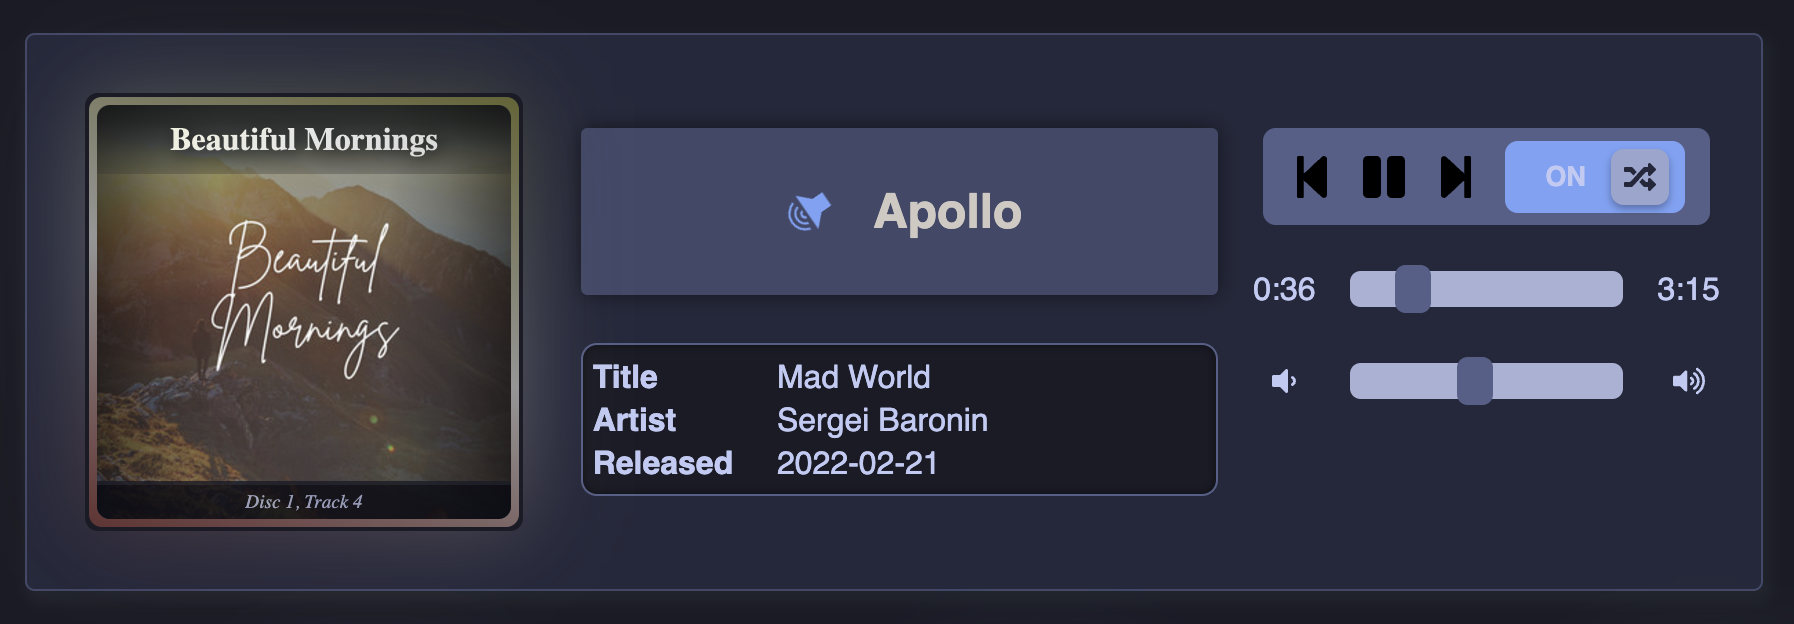
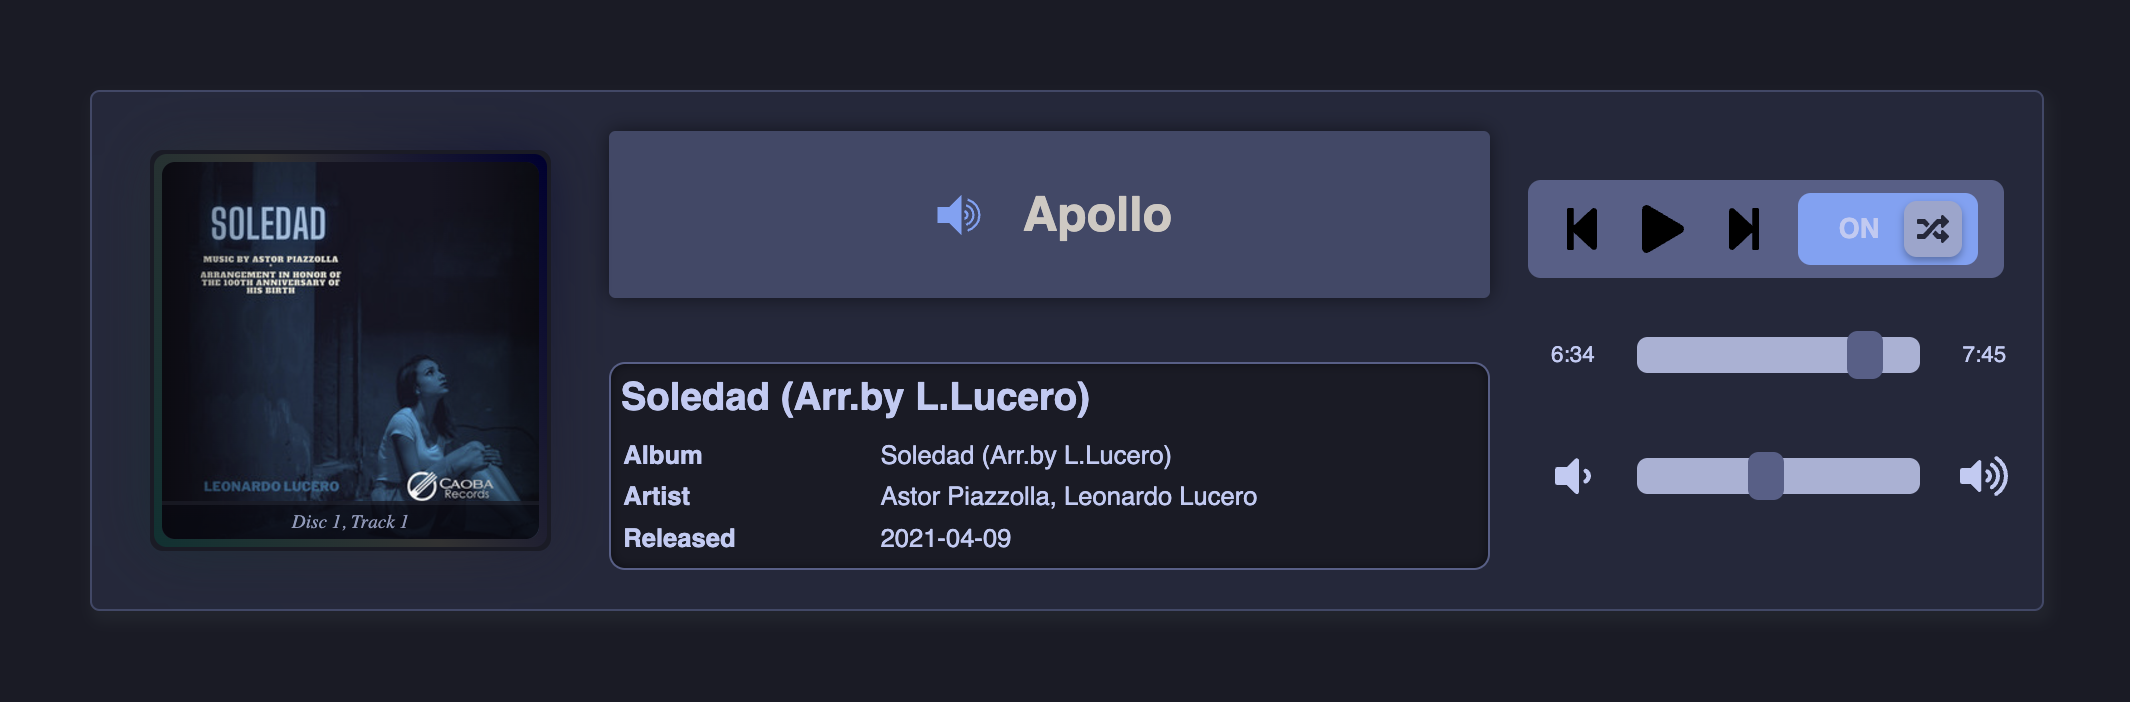
Fix layouts

diff --git a/src/components/MediaPlayer.css b/src/components/MediaPlayer.css
@@ -22,23 +22,6 @@
   position: relative;
 }
 
-.spotify-player-widescreen-layout {
-  display: flex;
-  flex-direction: row;
-  gap: 1em;
-  justify-content: space-between;
-}
-
-.spotify-player-portrait-layout {
-  display: flex;
-  flex-direction: column;
-}
-
-.spotify-player-default-layout {
-  display: flex;
-  flex-direction: column;
-}
-
 /* Wrapper main contents */
 
 .spotify-player-info-container {
@@ -51,64 +34,78 @@
   flex: 1;
 }
 
-/* Default layout (500px - 900px) */
-@media (min-width: 500px) and (max-width: 900px) {
-  .spotify-player-header {
-    order: -1;
-  }
+/* Default layout */
 
-  .spotify-player-footer {
-    display: flex;
-    justify-content: space-between;
-  }
-
-  .spotify-player-info-container {
-    flex-direction: row;
-  }
-
-  .spotify-player-left {
-    justify-content: space-between;
-    height: 100%;
-    flex: 1;
-  }
-
-  .spotify-player-right {
-    flex: 1;
-    display: flex;
-    flex-direction: column;
-    justify-content: space-between;
-    align-self: stretch;
-  }
+.spotify-player-default-layout {
+  display: flex;
+  flex-direction: column;
 }
 
-/* Portrait layout (<500px) */
-@media (max-width: 500px) {
-  .spotify-player-info-container {
-    flex-direction: column;
-  }
-
-  .spotify-player-bottom {
-    order: 1;
-  }
+.spotify-player-default-layout .spotify-player-header {
+  order: -1;
 }
 
-/* Widescreen layout (>900px) */
-@media (min-width: 900px) {
-  .spotify-player-left {
-    flex: 1;
-  }
+.spotify-player-default-layout .spotify-player-footer {
+  display: flex;
+  justify-content: space-between;
+}
 
-  .spotify-player-middle {
-    flex: 2;
-    display: flex;
-    flex-direction: column;
-    gap: 1em;
-  }
+.spotify-player-default-layout .spotify-player-info-container {
+  flex-direction: row;
+}
 
-  .spotify-player-right {
-    flex: 1;
-    display: flex;
-    flex-direction: column;
-    gap: 1em;
-  }
+.spotify-player-default-layout .spotify-player-left {
+  justify-content: space-between;
+  height: 100%;
+  flex: 1;
+}
+
+.spotify-player-default-layout .spotify-player-right {
+  flex: 1;
+  display: flex;
+  flex-direction: column;
+  justify-content: space-between;
+  align-self: stretch;
+}
+
+/* Portrait layout */
+
+.spotify-player-portrait-layout {
+  display: flex;
+  flex-direction: column;
+}
+
+.spotify-player-portrait-layout .spotify-player-info-container {
+  flex-direction: column;
+}
+
+.spotify-player-portrait-layout .spotify-player-bottom {
+  order: 1;
+}
+
+/* Widescreen layout */
+
+.spotify-player-widescreen-layout {
+  display: flex;
+  flex-direction: row;
+  gap: 1em;
+  justify-content: space-between;
+}
+
+.spotify-player-widescreen-layout .spotify-player-left {
+  flex: 1;
+}
+
+.spotify-player-widescreen-layout .spotify-player-middle {
+  flex: 2;
+  display: flex;
+  flex-direction: column;
+  gap: 1em;
+}
+
+.spotify-player-widescreen-layout .spotify-player-right {
+  flex: 1;
+  display: flex;
+  flex-direction: column;
+  gap: 1em;
 }

diff --git a/src/components/MediaPlayer.js b/src/components/MediaPlayer.js
@@ -147,19 +147,42 @@ const MediaPlayer = ({
     return "Invalid Date"; // Return fallback for invalid formats
   };
 
+  useEffect(() => {
+    const updateLayout = () => {
+      if (playerRef.current) {
+        const layoutClass =
+          width > 900
+            ? "spotify-player-widescreen-layout"
+            : width < 500
+            ? "spotify-player-portrait-layout"
+            : "spotify-player-default-layout";
+
+        // Remove previous layout classes
+        playerRef.current.classList.remove(
+          "spotify-player-widescreen-layout",
+          "spotify-player-portrait-layout",
+          "spotify-player-default-layout"
+        );
+
+        // Add the current layout class
+        playerRef.current.classList.add(layoutClass);
+      }
+    };
+
+    // Initial update
+    updateLayout();
+
+    // Add resize listener
+    window.addEventListener("resize", updateLayout);
+    return () => window.removeEventListener("resize", updateLayout);
+  }, [width]);
+
   if (hideOnDisconnect && !isConnected) {
-    return;
+    return null;
   }
 
-  const layoutClass =
-    width > 900
-      ? "spotify-player-widescreen-layout"
-      : width < 500
-        ? "spotify-player-portrait-layout"
-        : "spotify-player-default-layout";
-
   return (
-    <div ref={playerRef} className={`spotify-player-spotify-card ${layoutClass}`}>
+    <div ref={playerRef} className="spotify-player-spotify-card">
       {width < 500 ? (
         <>
           <div className="spotify-player-header">

diff --git a/src/components/Controls/VolumeControls.css b/src/components/Controls/VolumeControls.css
@@ -81,11 +81,3 @@
   cursor: not-allowed;
   background: var(--dark);
 }
-
-/* Portrait layout volume styling */
-@media (max-width: 500px){
-  .spotify-player-volume-control {
-    width: 100%;
-    padding: 0 1rem;
-  }
-}

diff --git a/src/components/Controls/SeekControls.css b/src/components/Controls/SeekControls.css
@@ -75,11 +75,3 @@
   cursor: not-allowed;
   background: var(--dark);
 }
-
-/* Portrait seekbar styling */
-@media (max-width: 500px){
-  .spotify-player-seek-container {
-    width: 100%;
-    padding: 0 1rem;
-  }
-}

diff --git a/README.md b/README.md
@@ -61,11 +61,11 @@ If you set `hideOnDisconnect` to true, the entire component will hide itself whe
 # Screen shots
 The player arranges itself based on the screen dimensions, with three possible layouts:
 
+### Default layout
+![Default](screenshot_default.png)
+
 ### Wide screen
 ![Wide](screenshot_wide.png)
-
-### Narrow screen
-![Mid](screenshot_mid.png)
 
 ### Portrait screen
 ![Portrait](screenshot_portrait.png)
